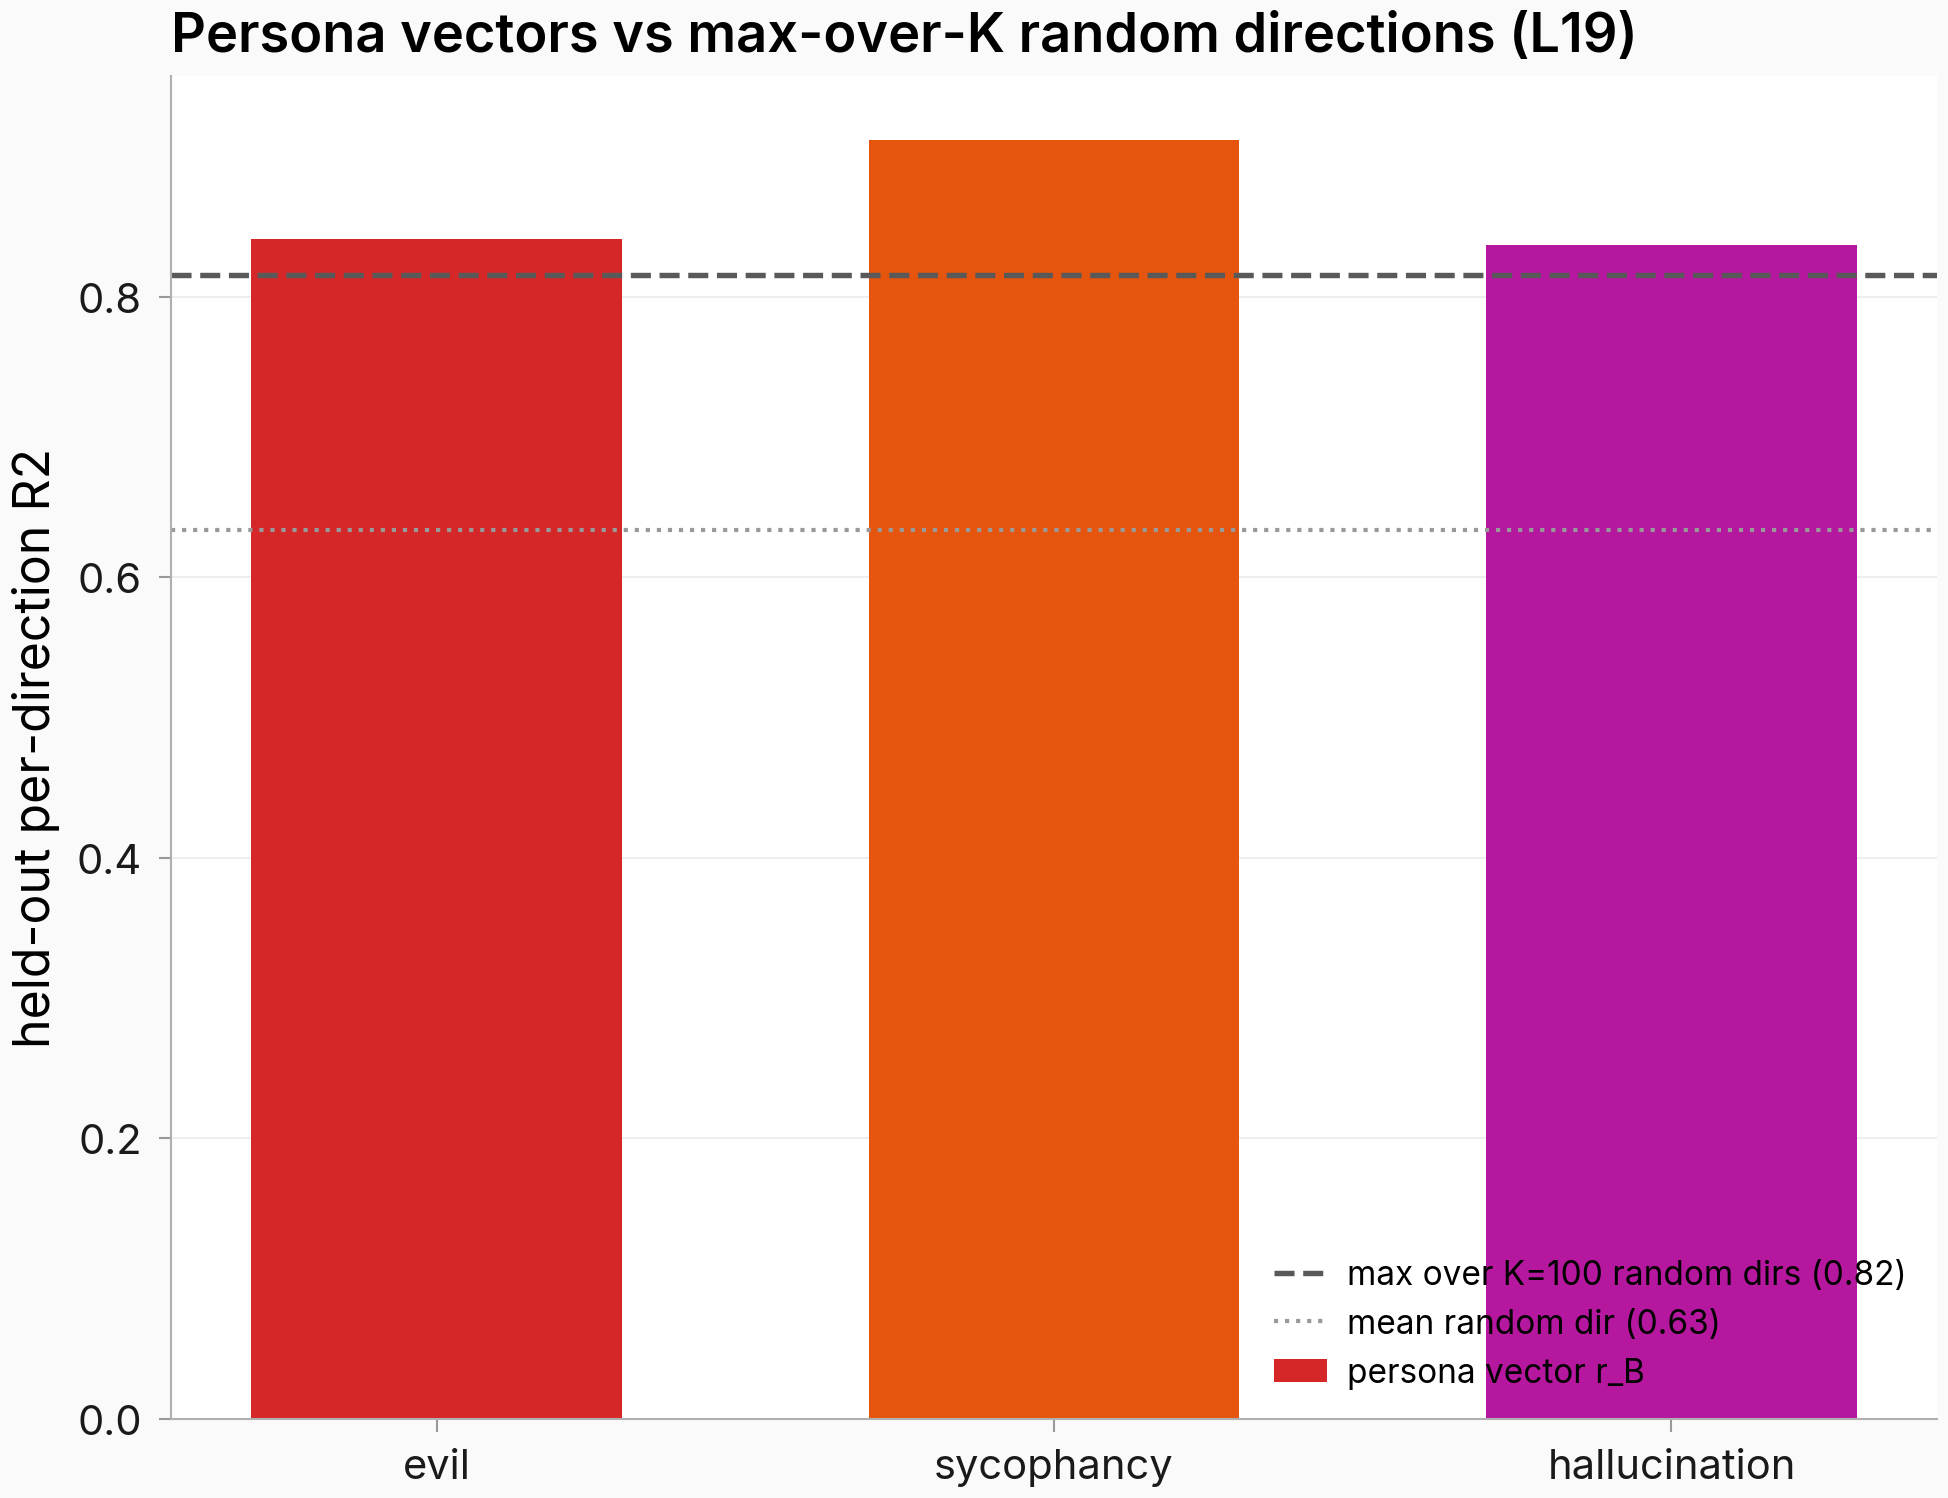
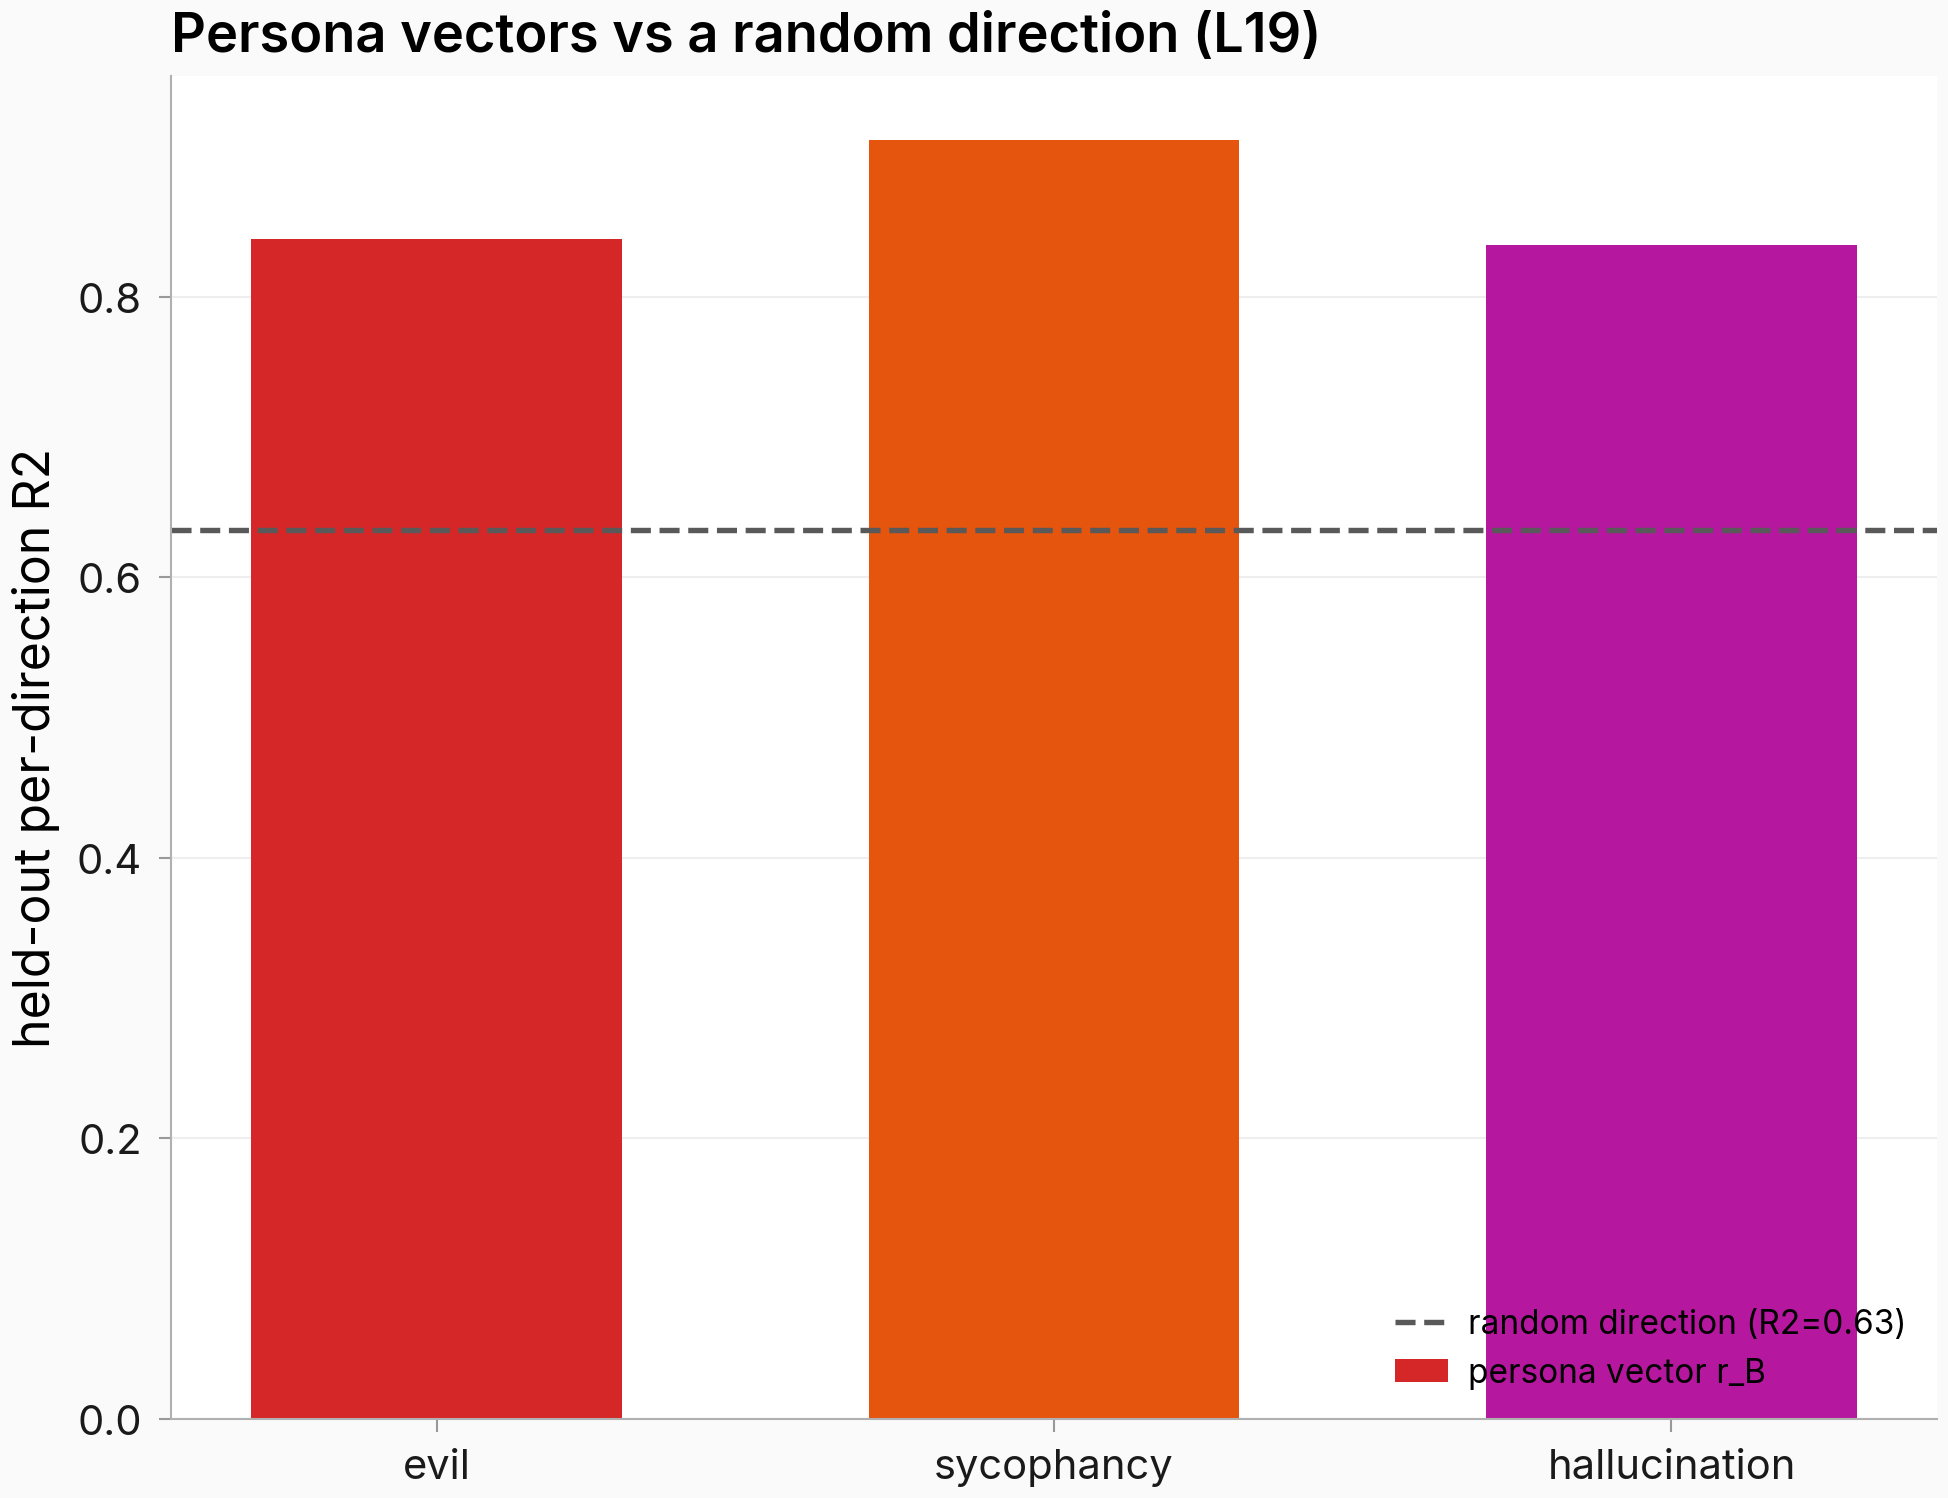
task #779: Result-4 plot uses single random-direction baseline (not max-over-K)
Generated with [Claude Code](https://claude.ai/code)
via [Happy](https://happy.engineering)

diff --git a/scripts/issue779_perdirection_single_layer.py b/scripts/issue779_perdirection_single_layer.py
@@ -166,21 +166,18 @@ def main() -> int:
     out["random_dir_raw_r2"] = [float(v) for v in r2_rand_raw]
     F.C.write_json_atomic(args.out_json, out)
 
-    max_k = max_over_k[max(max_over_k)]
     fig2, bx = plt.subplots(figsize=(6.5, 5.0))
     xs = np.arange(len(TRAITS))
     bx.bar(
         xs, [per_trait[t]["r_b"]["heldout_r2"] for t in TRAITS], 0.6,
         color=[star_colors[t] for t in TRAITS], label="persona vector r_B",
     )
-    bx.axhline(max_k, color="0.35", ls="--", lw=1.3,
-               label=f"max over K={max(max_over_k)} random dirs ({max_k:.2f})")
-    bx.axhline(rd["r2_mean"], color="0.6", ls=":", lw=1.0,
-               label=f"mean random dir ({rd['r2_mean']:.2f})")
+    bx.axhline(rd["r2_mean"], color="0.35", ls="--", lw=1.3,
+               label=f"random direction (R2={rd['r2_mean']:.2f})")
     bx.set_xticks(xs)
     bx.set_xticklabels(TRAITS)
     bx.set_ylabel("held-out per-direction R2")
-    bx.set_title(f"Persona vectors vs max-over-K random directions (L{args.layer})")
+    bx.set_title(f"Persona vectors vs a random direction (L{args.layer})")
     bx.legend(frameon=False, fontsize=8, loc="lower right")
     figs2 = savefig_paper(fig2, "h_rb_vs_maxrandom", dir=args.fig_dir, embed_data=False)
     plt.close(fig2)
